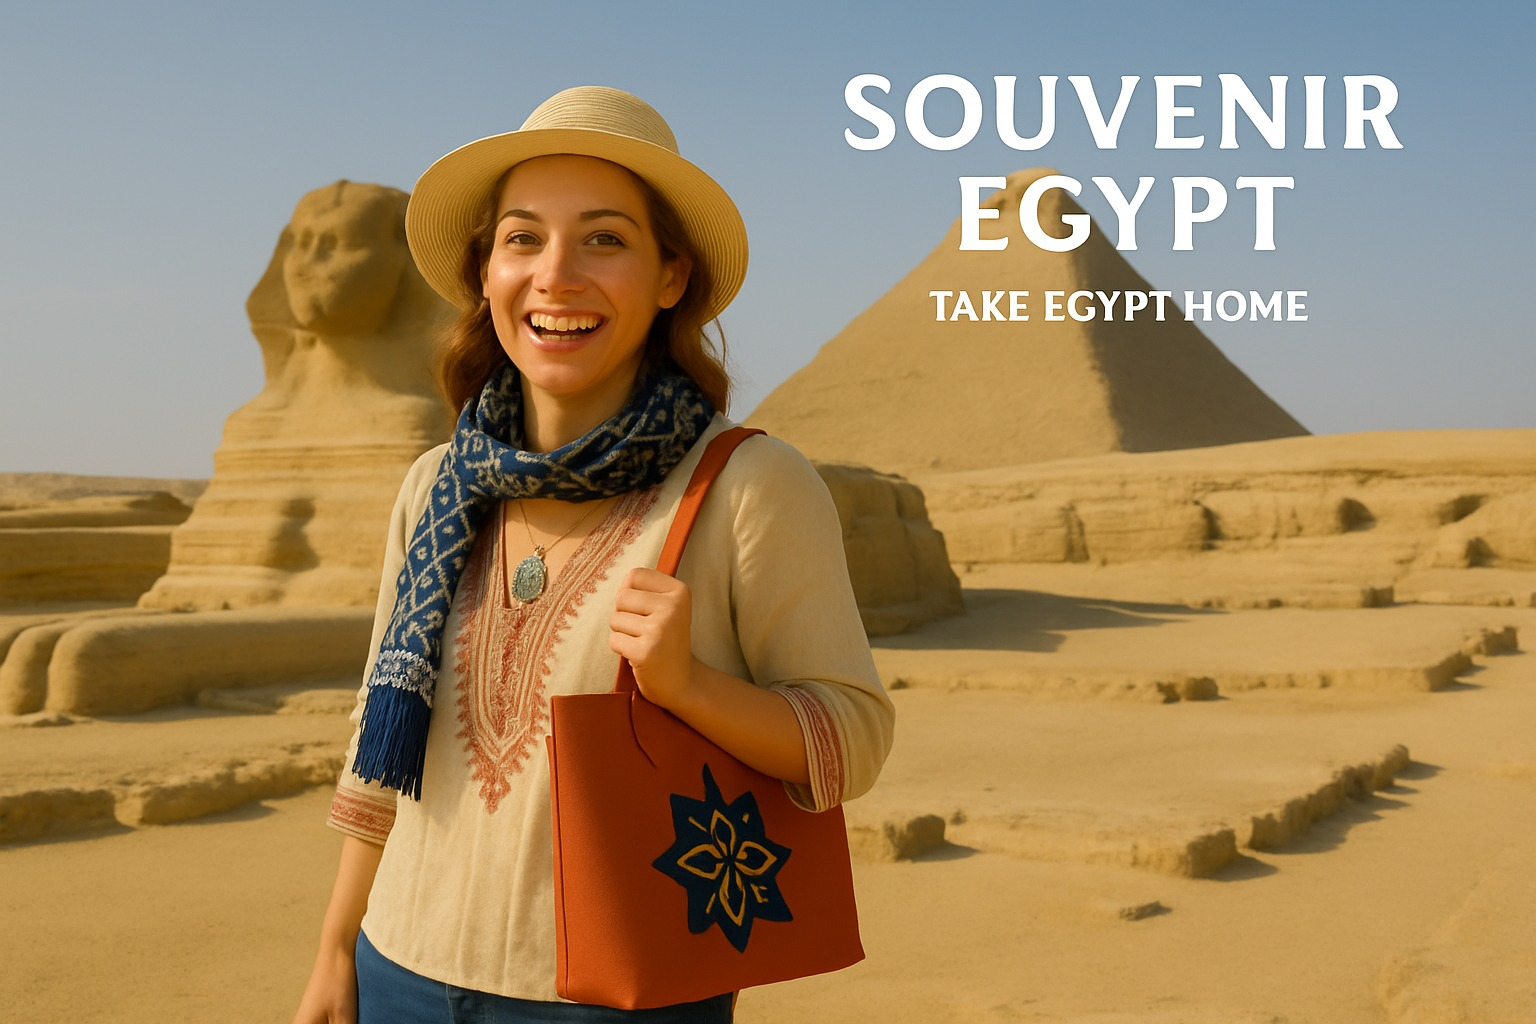
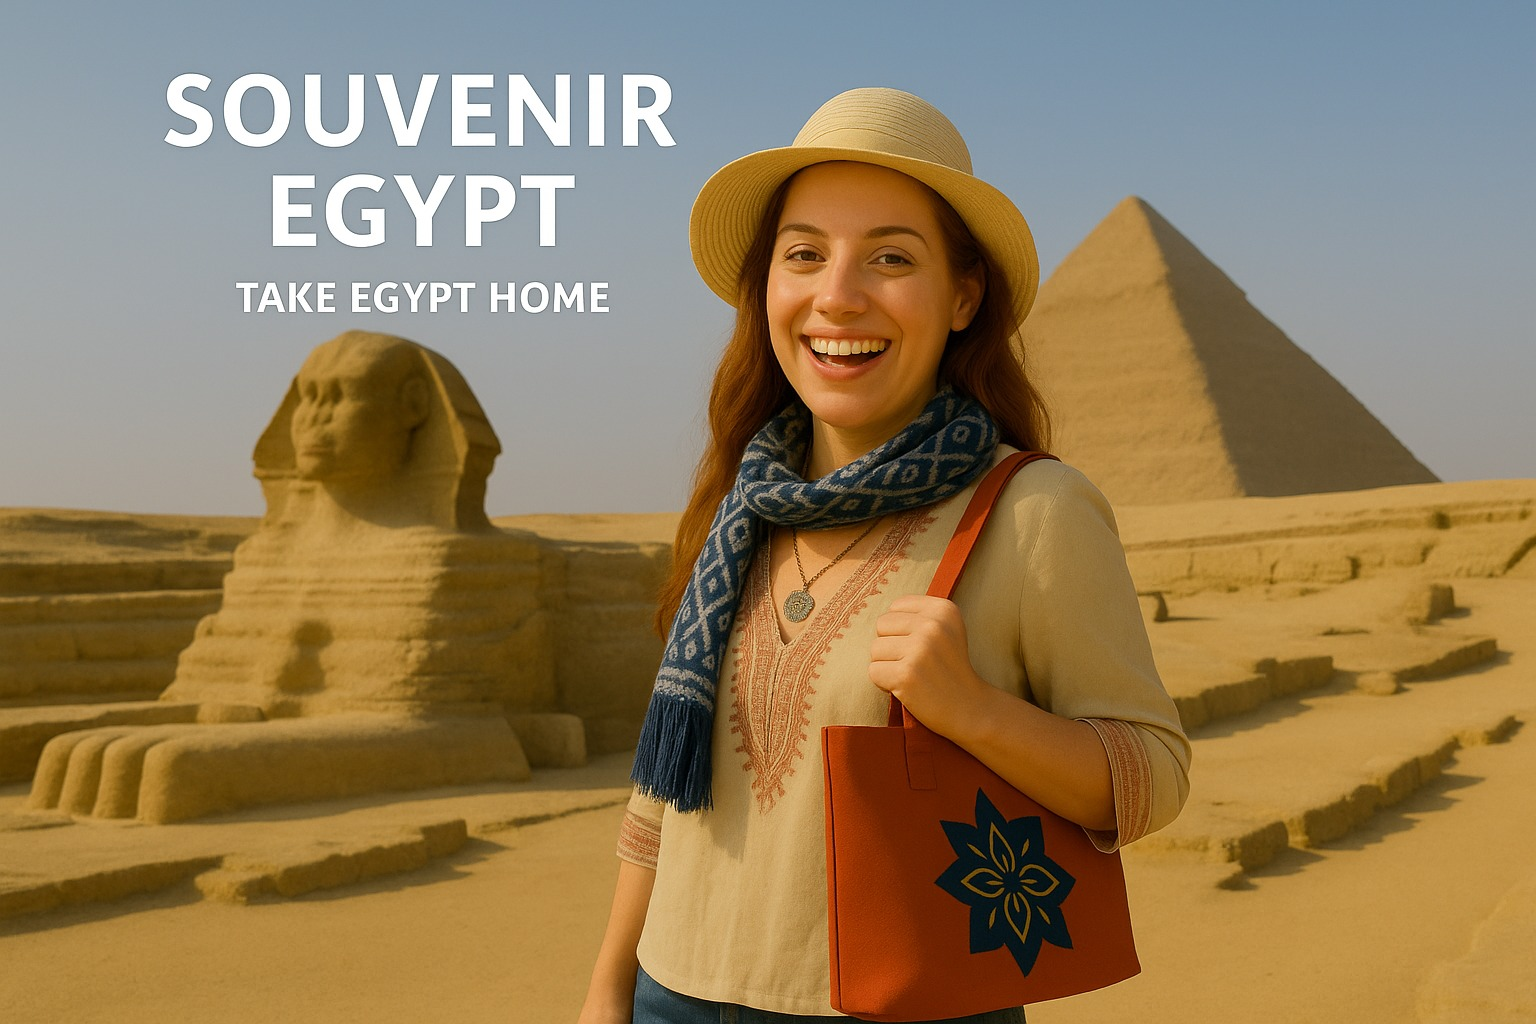
Upload-5 11-10-2025 9:34PM Upload-5 11-10-2025 9:34PM

diff --git a/index.html b/index.html
@@ -107,19 +107,21 @@
                 url('./assets/img/heroBagckground.jpg') no-repeat top center/cover;
             height: 100vh;
             display: flex;
-            align-items: center;
+            align-items: flex-end;
             margin-top: 70px;
+            padding-bottom: 50px;
         }
 
         .hero-content {
             width: 100%;
+            max-width: 1500px;
         }
 
         .hero-text {
             max-width: 600px;
             padding: 2rem;
             background-color: rgba(255, 255, 255, 0.1);
-            /* backdrop-filter: blur(10px); */
+            backdrop-filter: blur(10px);
             border-radius: 10px;
             box-shadow: 0 10px 30px rgba(0, 0, 0, 0.2);
         }
